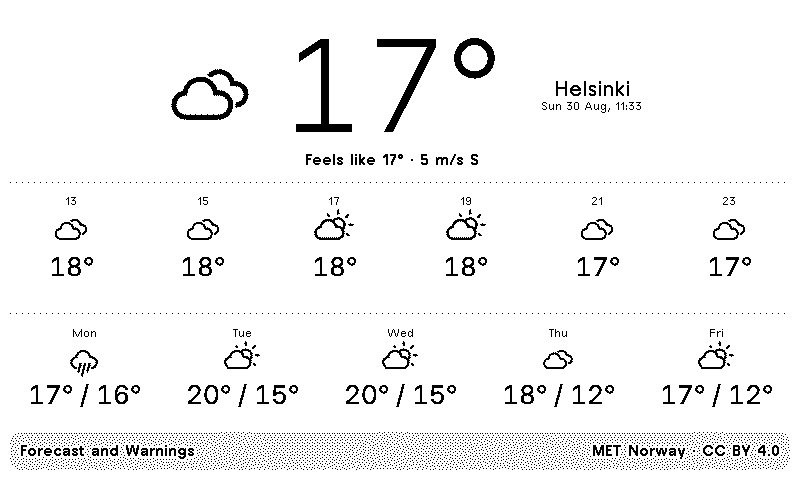
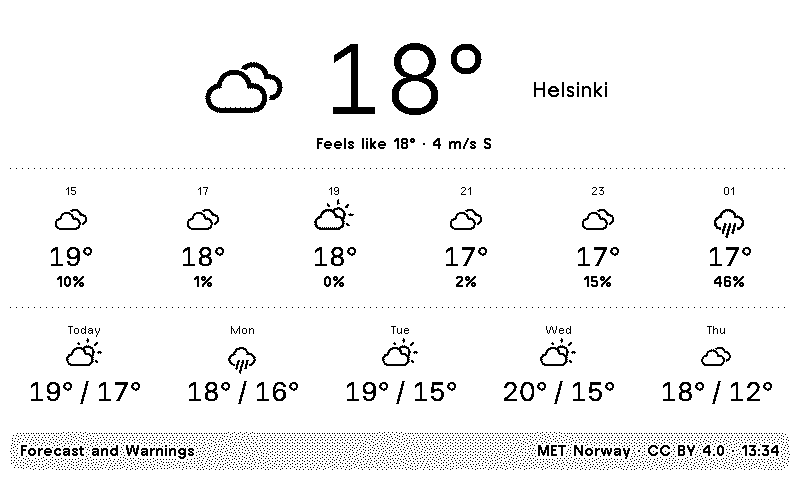
feat: act on the four decisions from the prototype
- The hour strip carries probability of precipitation, not millimetres, so
  the row is never blank. MET gives probability in the Nordic area only, so
  it falls back to millimetres: the Greenland Sea point had no probability
  at any of its 62 time steps, but it had the amount.
- The five-day band starts today. The first cell says "Today".
- The hero temperature drops from xxxlarge to xxlarge, and the update time
  moves out of the hero into the footer.

Refs #10

Claude-Session: https://claude.ai/code/session_01NWJ8DTfzPMQE4Eisa3AGFU

diff --git a/docs/development.md b/docs/development.md
@@ -41,6 +41,7 @@ Places that were useful while building:
 |---|---|---|---|
 | Helsinki | 60.1699 | 24.9384 | the calm case, and the demo location of the master |
 | Hammerfest | 70.6634 | 23.6821 | a Norwegian point that often carries a warning |
+| Greenland Sea | 78.5000 | -15.0000 | a marine warning area, and a point with no precipitation probability |
 
 Warnings move. To find a point that has one now:
 
@@ -61,3 +62,7 @@ that does not exist, then poll again.
 - `{% render %}` takes comma-separated arguments:
   `{% render "weather_icon", code: x, box: "..." %}`.
 - `{% render %}` gets an isolated scope. Everything it needs must be an argument.
+- `probability_of_precipitation` is a Nordic-area value. It was absent at every
+  one of the 62 time steps of the Greenland Sea point, where `precipitation_amount`
+  was still there. Any value from `/complete` needs a check before it is trusted
+  worldwide.
